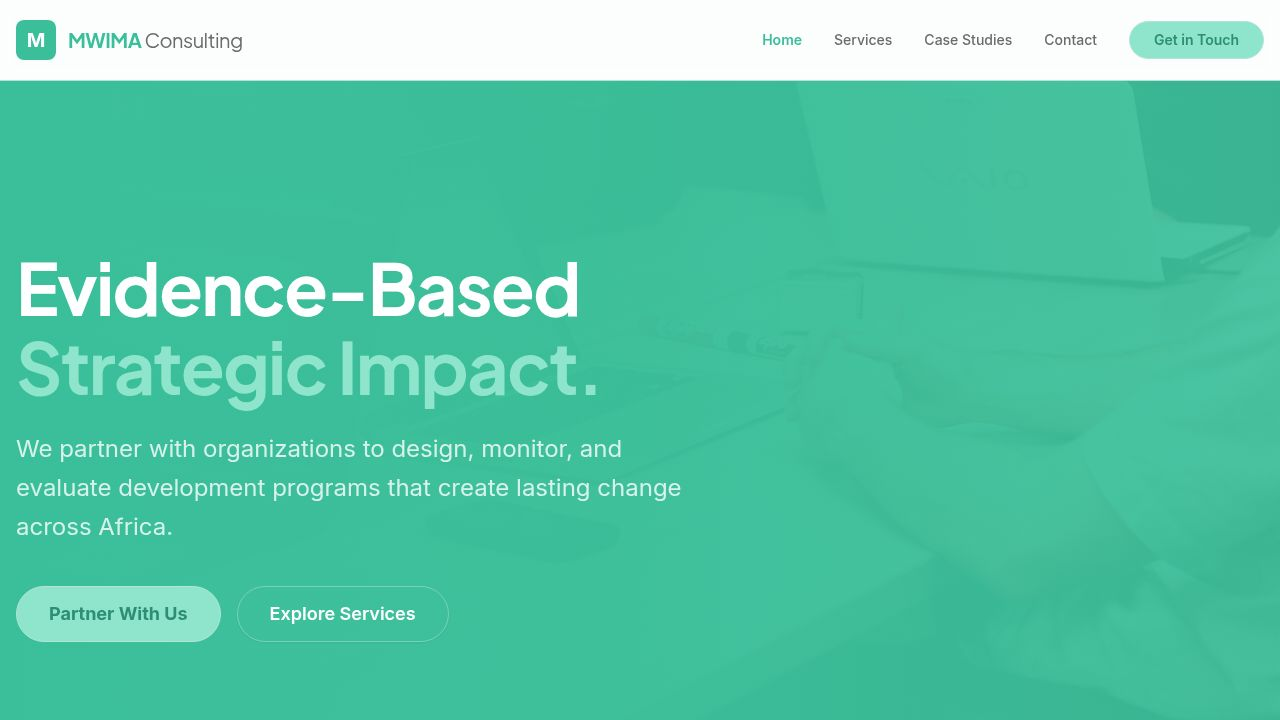
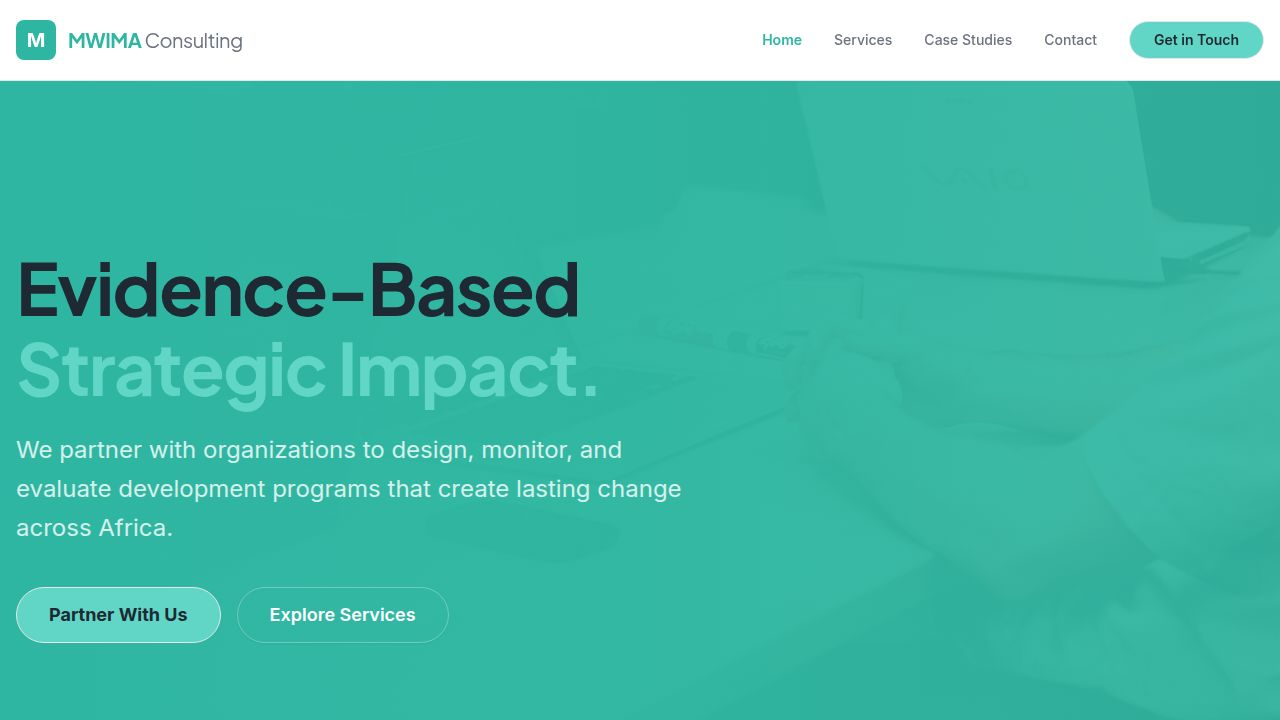
Update website colors to reflect the new brand palette
Update CSS variables in `index.css` to implement the new brand color scheme, including primary teal, light teal, backgrounds, and text colors.

Replit-Commit-Author: Agent
Replit-Commit-Session-Id: 5e2e018f-c7d5-47a4-bbd5-23ddee3c6f9b
Replit-Commit-Checkpoint-Type: full_checkpoint
Replit-Commit-Event-Id: c99ce4f6-6d9c-4a6f-ab62-0d8c773dd243
Replit-Commit-Screenshot-Url: https://storage.googleapis.com/screenshot-production-us-central1/6903eaf9-b529-4c47-bc3e-c75ebad9204b/5e2e018f-c7d5-47a4-bbd5-23ddee3c6f9b/rLf7Bhq
Replit-Helium-Checkpoint-Created: true

diff --git a/client/src/index.css b/client/src/index.css
@@ -38,43 +38,43 @@
 }
 
 :root {
-  /* Brand Primary: #3BBF9A -> 163 53% 49% */
-  --primary: 163 53% 49%;
+  /* Primary Teal: #2FB7A3 -> 171 59% 45% */
+  --primary: 171 59% 45%;
   --primary-foreground: 0 0% 100%;
 
-  /* Brand Primary Soft: #8FE3C9 -> 162 62% 73% */
-  /* Using as Secondary/Accent */
-  --secondary: 162 62% 73%;
-  --secondary-foreground: 163 51% 37%; /* #2F8F73 Brand Primary Dark */
+  /* Teal Light: #5FD6C6 -> 172 59% 61% (Used for Secondary) */
+  --secondary: 172 59% 61%;
+  --secondary-foreground: 210 24% 16%; /* Dark text on light teal */
 
-  /* Bg Main: #F7FBFA -> 165 33% 98% */
-  --background: 165 33% 98%;
+  /* Bg Main: #FFFFFF -> 0 0% 100% */
+  --background: 0 0% 100%;
   
-  /* Text Primary: #3A3A3A -> 0 0% 23% */
-  --foreground: 0 0% 23%;
+  /* Text Heading: #1F2933 -> 210 24% 16% */
+  --foreground: 210 24% 16%;
   
-  /* Card: White to stand out on F7FBFA */
-  --card: 0 0% 100%;
-  --card-foreground: 0 0% 23%;
+  /* Bg Card: #F4F7F6 -> 160 14% 96% */
+  --card: 160 14% 96%;
+  /* Text Body: #4B5563 -> 215 14% 34% (Used for Card Foreground mostly) */
+  --card-foreground: 215 14% 34%;
   
   --popover: 0 0% 100%;
-  --popover-foreground: 0 0% 23%;
+  --popover-foreground: 210 24% 16%;
   
-  /* Bg Pattern/Muted: #D9F1EA -> 163 46% 90% */
-  --muted: 163 46% 90%;
-  /* Text Secondary: #6B6B6B -> 0 0% 42% */
-  --muted-foreground: 0 0% 42%;
+  /* Bg Card / Tag Bg: #E6F6F3 -> 169 50% 93% (Used for Muted/Accent backgrounds) */
+  --muted: 169 50% 93%;
+  /* Text Muted: #6B7280 -> 220 9% 46% */
+  --muted-foreground: 220 9% 46%;
   
-  --accent: 163 46% 90%;
-  --accent-foreground: 163 51% 37%;
+  --accent: 169 50% 93%;
+  --accent-foreground: 171 59% 45%; /* Primary teal on accent bg */
   
   --destructive: 0 84% 60%;
   --destructive-foreground: 0 0% 98%;
 
-  /* Border: using Brand Primary Soft or Pattern */
-  --border: 163 46% 80%; /* Slightly darker than pattern for visibility */
-  --input: 163 46% 80%;
-  --ring: 163 53% 49%;
+  /* Border: #E5E7EB (Generic light gray) or matching muted */
+  --border: 220 13% 91%;
+  --input: 220 13% 91%;
+  --ring: 171 59% 45%;
 }
 
 @layer base {
@@ -85,6 +85,9 @@
     @apply font-sans antialiased bg-background text-foreground;
   }
   h1, h2, h3, h4, h5, h6 {
-    @apply font-heading tracking-tight;
+    @apply font-heading tracking-tight text-[hsl(var(--foreground))];
+  }
+  p {
+    @apply text-[hsl(var(--card-foreground))]; /* Mapping body text color */
   }
 }
